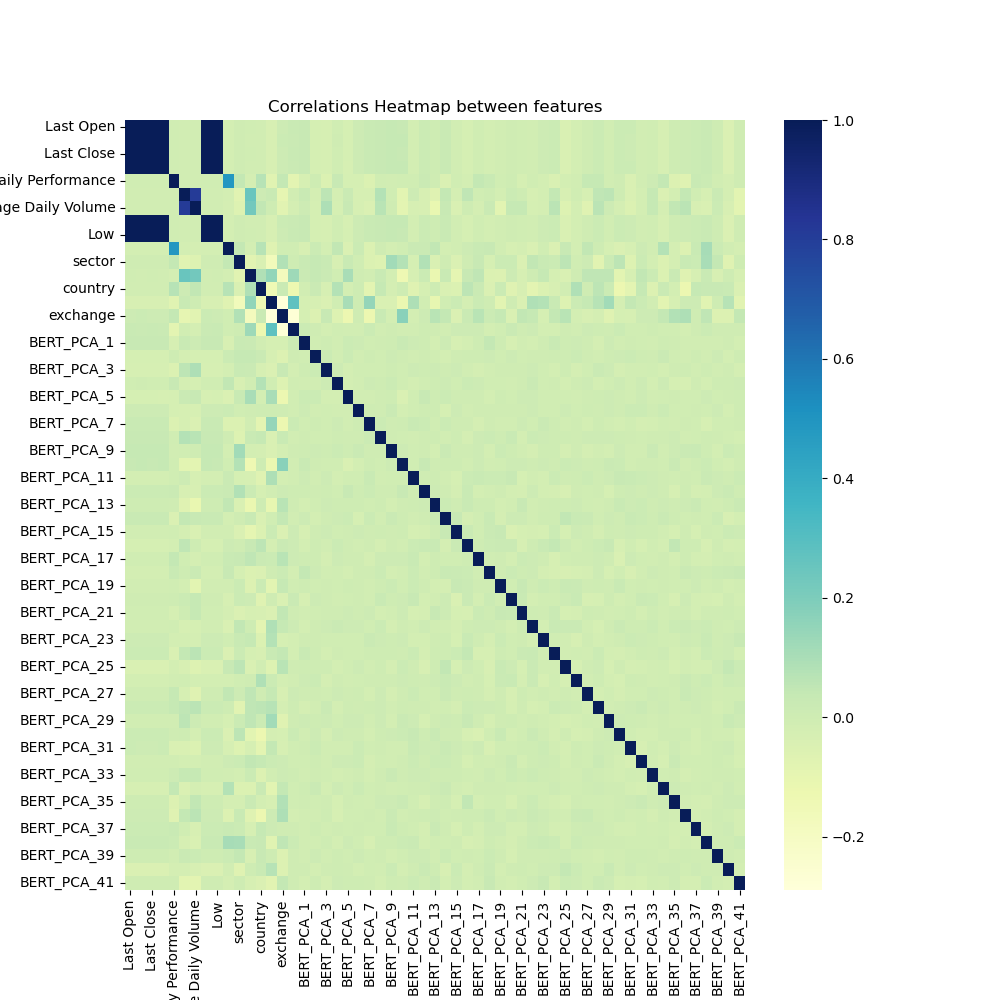
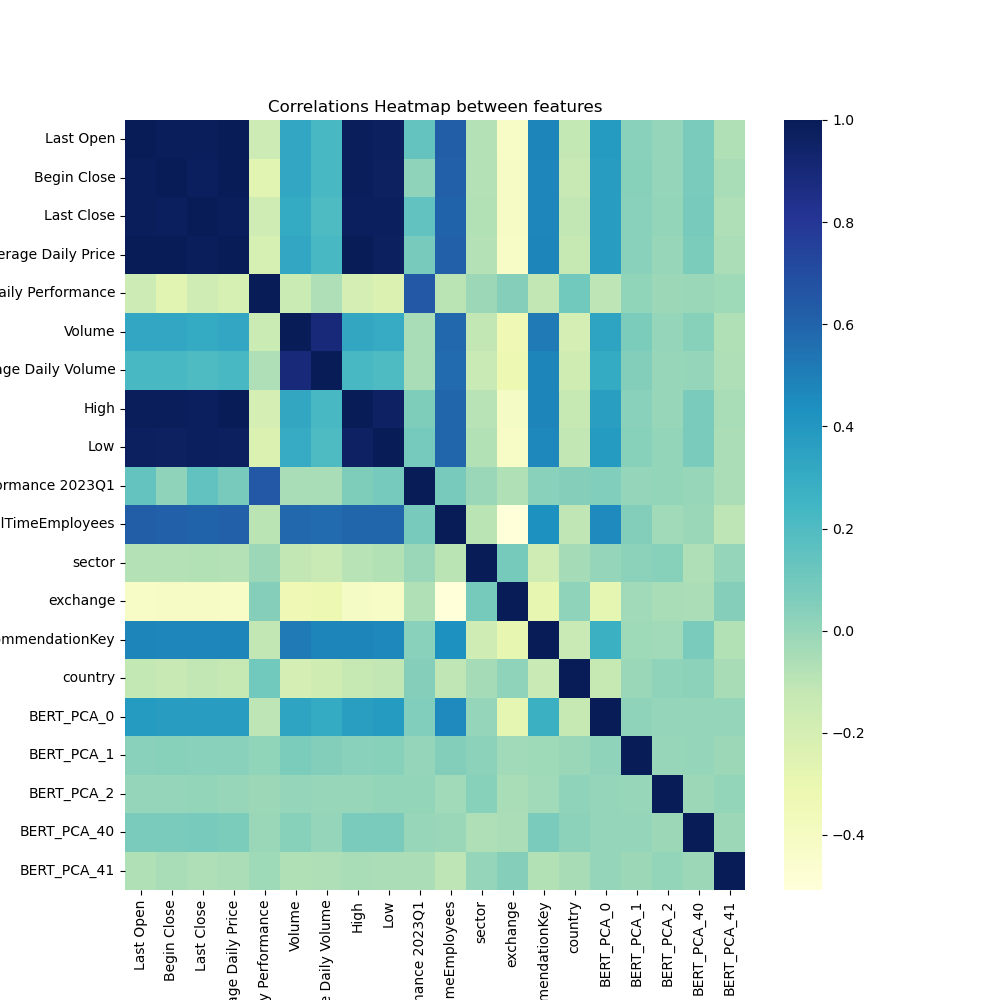
move scatter to eda

diff --git a/src/exploratory_data_analysis.py b/src/exploratory_data_analysis.py
@@ -5,6 +5,7 @@ import numpy as np
 import matplotlib.pyplot as plt
 import matplotlib.ticker as ticker
 import seaborn as sns
+from sklearn.decomposition import PCA
 
 from preprossessing_data import encode_category
 
@@ -22,14 +23,21 @@ def plot_histogram(df):
         ax.set_ylabel('count')
     fig.savefig('output/plot/overall_distribution')
     plt.close(fig)
+
+
 def plot_heatmap(df):
     df_encoded = encode_category(df.copy())
-    df_encoded = df_encoded.drop(columns=['Relative 2023Q2 Label', 'Relative 2023Q2'])
+    df_encoded = df_encoded[
+        ['Last Open', 'Begin Close', 'Last Close', 'Average Daily Price', 'Average Daily Performance',
+         'Volume', 'Average Daily Volume', 'High', 'Low', 'Performance 2023Q1', 'fullTimeEmployees',
+         'sector', 'exchange', 'recommendationKey', 'country', 'BERT_PCA_0', 'BERT_PCA_1', 'BERT_PCA_2', 'BERT_PCA_40',
+         'BERT_PCA_41']]
     fig, ax = plt.subplots(figsize=(10, 10))
     sns.heatmap(df_encoded.corr(numeric_only=True), cmap="YlGnBu")
     ax.set_title("Correlations Heatmap between features")
     fig.savefig("output/plot/heatmap")
     plt.close(fig)
+
 
 def plot_cat_histogram(df):
     fig, axd = plt.subplot_mosaic([['sector', 'sector', 'sector'],
@@ -44,10 +52,28 @@ def plot_cat_histogram(df):
         ax.set_ylabel('Count')
 
         x_tick = ax.get_xticklabels()
-        x_tick = [label.get_text().replace(' ', '\n') for label in x_tick ]
-        print(x_tick)
+        x_tick = [label.get_text().replace(' ', '\n') for label in x_tick]
         ax.set_xticklabels(x_tick)
     plt.savefig('output/plot/cat_distribution')
+    plt.close(fig)
+
+
+def clustering_by_class(df):
+    df_classes = df['Relative 2023Q2 Label']
+    unique_classes = ['Exceptionally Bad Performance', 'Bad Performance', 'Neutral', 'Good Performance']
+    df_encoded = encode_category(df.copy())
+    df_encoded = df_encoded.drop(columns=['Relative 2023Q2', 'Relative 2023Q2 Label', 'Stock'])
+    df_encoded_pca = PCA(n_components=2, random_state=459).fit_transform(df_encoded)
+
+    fig, ax = plt.subplots(figsize=(8, 8))
+    colours = ['tab:red', 'tab:orange', 'tab:green', 'tab:blue']
+    ax.set_title("Scatter plot of data by label")
+    fig.tight_layout()
+    for (class_, colour) in zip(unique_classes, colours):
+        df_class = df_encoded_pca[df_classes == class_]
+        ax.scatter(df_class[:, 0], df_class[:, 1], s=15, c=colour, label=class_)
+    plt.legend()
+    plt.savefig('output/plot/scatter_label')
     plt.close(fig)
 
 
@@ -55,8 +81,10 @@ def main():
     df_before_normalized = pd.read_csv('data/stocks_data_processed_imputed.csv')
     df_post_normalize = pd.read_csv('data/stocks_data_normalized_v1.csv')
 
+    plot_histogram(df_post_normalize)
     plot_cat_histogram(df_post_normalize)
-    plot_heatmap(df_before_normalized)
+    clustering_by_class(df_post_normalize)
+    plot_heatmap(df_post_normalize)
 
     df_post_normalize = df_post_normalize.drop(
         columns=['Volume'])  # we drop Volume since it is somewhat redundant by other features and due to sparseness

diff --git a/src/clustering_data.py b/src/clustering_data.py
@@ -8,24 +8,6 @@ from sklearn.decomposition import PCA
 from preprossessing_data import encode_category
 
 
-def clustering_by_class(df):
-    df_classes = df['Relative 2023Q2 Label']
-    unique_classes = ['Exceptionally Bad Performance', 'Bad Performance', 'Neutral', 'Good Performance']
-    df_encoded = encode_category(df.copy())
-    df_encoded = df_encoded.drop(columns=['Relative 2023Q2', 'Relative 2023Q2 Label', 'Stock'])
-    df_encoded_pca = PCA(n_components=2, random_state=459).fit_transform(df_encoded)
-
-    fig, ax = plt.subplots(figsize=(10, 10))
-    colours = ['tab:red', 'tab:orange', 'tab:green', 'tab:blue']
-    ax.set_title("Clustering result from label")
-    fig.tight_layout()
-    for (class_, colour) in zip(unique_classes, colours):
-        df_class = df_encoded_pca[df_classes == class_]
-        ax.scatter(df_class[:, 0], df_class[:, 1], s=10, c=colour, label=class_)
-    plt.legend()
-    plt.savefig('output/plot/cluster_label')
-    plt.close(fig)
-
 
 def clustering_DBSCAN(df):
     df_encoded = encode_category(df.copy())
@@ -113,7 +95,6 @@ def clustering_kmeans_plusplus(df):
 
 def main():
     df = pd.read_csv('data/stocks_data_normalized.csv')
-    clustering_by_class(df)
     clustering_DBSCAN(df)
     clustering_kmeans_plusplus(df)
 
